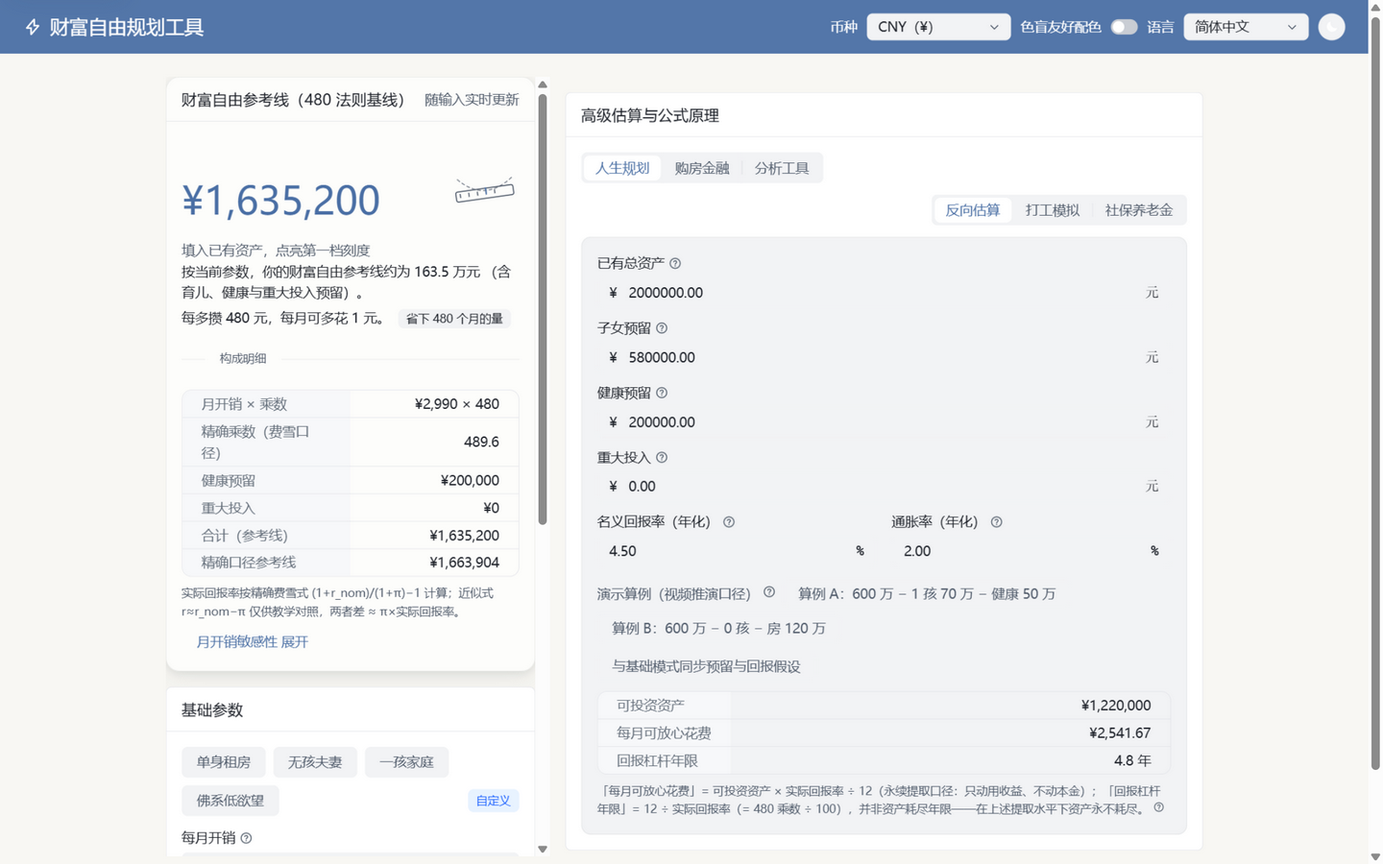
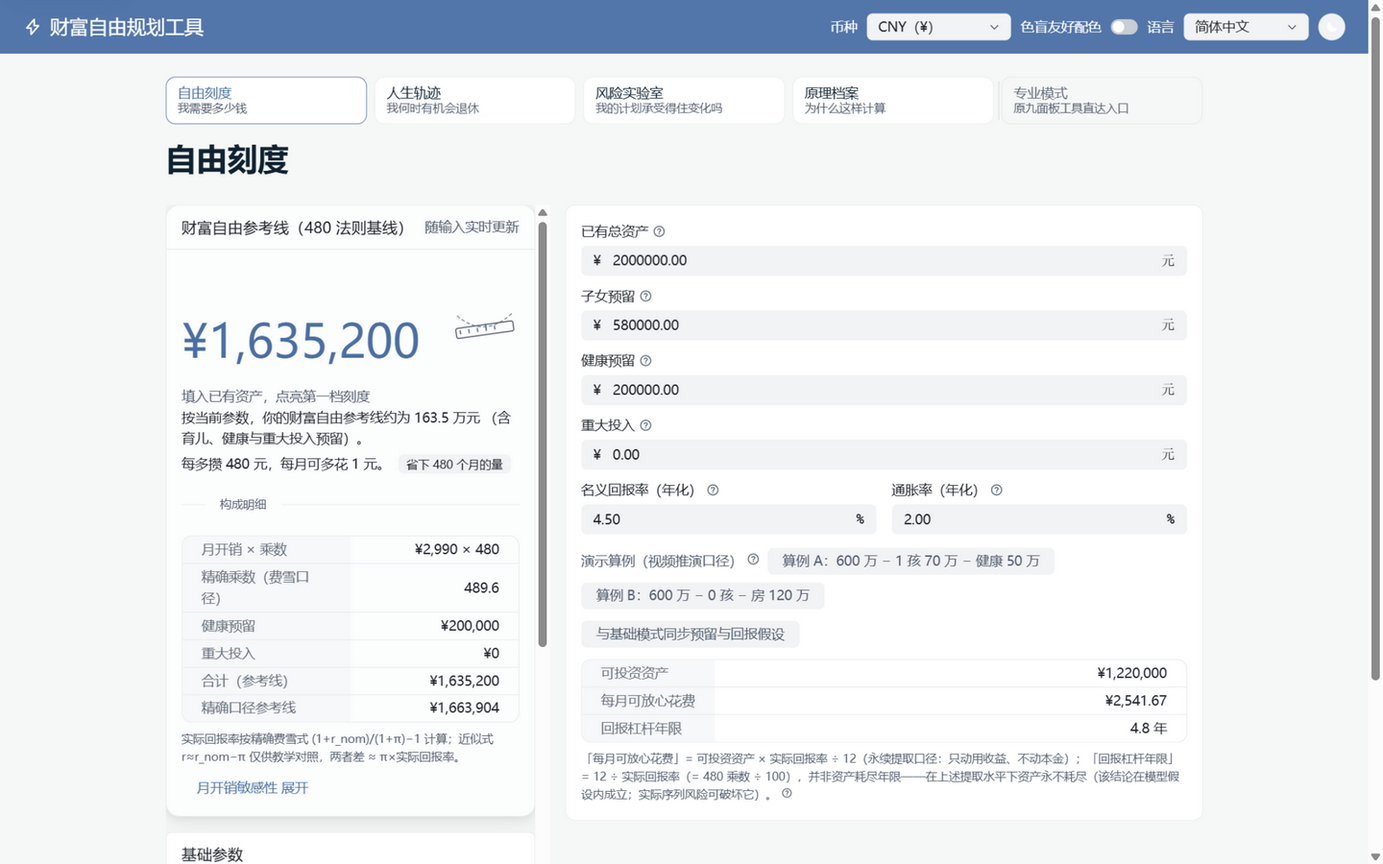
docs: 重构研究与双语说明同步

diff --git a/README.en.md b/README.en.md
@@ -40,7 +40,7 @@ Real return rate = nominal return rate − inflation rate   (defaults: 4.5% − 
 
 With the default inputs (monthly expense 2,990 yuan, organized from the official urban per-capita consumer spending statistics), the reference line is about **1.635 million CNY** (parallel reference: the exact Fisher-basis multiplier is 489.6 → about 1.664 million CNY; both calibers are shown side by side in the panel). Any input change re-computes instantly.
 
-The advanced estimates section uses a **segmented-control + per-group tabs** navigation (nine sub-panels grouped into three segments: Life planning / Housing & loans / Analysis tools; a single on-screen focus, with running simulation results and form inputs preserved across group switches, and arrow keys roaming within a group's tabs) and adds: reverse estimation, a loan calculator, buy-and-rent-out analysis, Monte Carlo simulation (return mode: normal parameters or historical bootstrap; withdrawal strategy: fixed real spending (default) / threshold-band adjustment / percentage of balance, with a deterministic sequence-risk comparison built into the panel), public-pension estimation, tax estimation with a multi-currency check, the work-years simulation (which can also back-solve the required monthly saving for a target horizon), and the multi-scenario comparison (a browser-local scenario library with side-by-side key-metric comparison); the base output card expands into a "Monthly-expense sensitivity" section (reference lines at ±10% / ±20% / ±30%), and "Copy share link" encodes all business inputs into the URL — opening the link restores the same parameter set. The app installs to the desktop / home screen as a PWA and works offline once installed — all computation still stays local.
+The app defaults to a **four-task navigation** — a switcher bar at the top of the content area with exactly five entries: Freedom target (How much do I need?) / Life timeline (When can I afford to retire?) / Risk lab (Can my plan survive change?) / Rationale archive (Why is it calculated this way?), plus Pro mode (direct access to the original nine panels). Keyboard support covers ←/→ roaming with Enter/Space activation, digit keys 1–4/5, and `?task=…` deep links (Pro mode accepts `?task=pro&panel=<panel key>` to land on any of the nine panels); explicit switches persist the route preference locally, so a reload stays on the same task. The original **segmented-control + per-group tabs** navigation (nine sub-panels grouped into three segments: Life planning / Housing & loans / Analysis tools) is preserved intact as Pro mode: a single on-screen focus, running simulation results and form inputs preserved across group switches, arrow keys roaming within a group's tabs — semantics unchanged. It adds: reverse estimation, a loan calculator, buy-and-rent-out analysis, Monte Carlo simulation (return mode: normal parameters or historical bootstrap; withdrawal strategy: fixed real spending (default) / threshold-band adjustment / percentage of balance, with a deterministic sequence-risk comparison built into the panel), public-pension estimation, tax estimation with a multi-currency check, the work-years simulation (which can also back-solve the required monthly saving for a target horizon), and the multi-scenario comparison (a browser-local scenario library with side-by-side key-metric comparison); the base output card expands into a "Monthly-expense sensitivity" section (reference lines at ±10% / ±20% / ±30%), and "Copy share link" encodes all business inputs into the URL — opening the link restores the same parameter set. The app installs to the desktop / home screen as a PWA and works offline once installed — all computation still stays local.
 
 ## 📸 Demo
 
@@ -48,17 +48,17 @@ The advanced estimates section uses a **segmented-control + per-group tabs** nav
 
 <div align="center">
 
-### Desktop two-column workbench · Reading on the left, tools on the right
+### Freedom target · Four-task navigation default view (reading on the left, tools on the right)
 
 ![Desktop two-column workbench](docs/assets/en/demo-workbench.png)
 
-*Desktop two-column layout (active at ≥1200 px viewports; single column below the breakpoint): the left column keeps the "480 Rule" baseline output card — the large critical value, the detailed breakdown (with the parallel exact Fisher-basis rows: exact multiplier 489.6 / exact-basis reference line ¥1,663,904) and the monthly-expense-sensitivity entry (the ruler art at the upper right is the empty state before assets are filled in; it becomes the progress ring afterwards); the right column hosts "Advanced estimates and formula rationale", navigated by a segmented control (Life planning / Housing & loans / Analysis tools) plus in-group tabs, currently on Reverse estimation with its worked examples and the ¥1,220,000 / ¥2,541.67 / 4.8 years result rows*
+*Four-task navigation default view: the switcher bar at the top of the content area holds exactly five entries — Freedom target / Life timeline / Risk lab / Rationale archive as primary tasks plus Pro mode as the secondary entry (direct access to the original nine panels); the active "Freedom target" page is two-column (container tier ≥1024, single column below): the left column keeps the "480 Rule" baseline output card — the large critical value, the detailed breakdown (with the parallel exact Fisher-basis rows: exact multiplier 489.6 / exact-basis reference line ¥1,663,904) and the monthly-expense-sensitivity entry (the ruler art at the upper right is the empty state before assets are filled in; it becomes the progress ring afterwards); the right column hosts the reverse-estimation cross-tool card (demo inputs: total existing assets 2.0M / children's reserve 580k / health reserve 200k → investable assets ¥1,220,000, safe monthly spending ¥2,541.67, return leverage years 4.8 years, with the worked-example buttons)*
 
-### Workbench flow · Two-column linkage and state kept across panels
+### Task-switching capture · State kept across tasks
 
 ![Workbench flow demo](docs/assets/en/demo-workbench-flow.gif)
 
-*Typing in the left column (monthly expense → 3,500): the large critical value settles at ¥1,880,000 with an asymptotic roll of ~360 ms, the breakdown updates to ¥3,500 × 480 and the parallel exact Fisher-basis line to ¥1,913,600; on the right, the Public pension panel takes "Age you plan to stop working = 55" and the bridge card reports 5 years / ¥1,680,000 (= 3,500 × 480 on the full living-expense basis, following the left column's expense), with the "Adjusted reference line (after pension payments start)" moving to ¥657.97 / ¥515,825.6; the Work-years simulation then runs (sustainability check years 10) and yields the dual-metric card — a 99.5% probability of reaching the goal alongside a 99.5% sustained success probability — the two columns scroll independently and no state is lost across panel switches*
+*Four-task switching capture (212 frames): on "Freedom target", monthly expense is changed to 5,000 → the reference line moves to ¥2,600,000 (breakdown ¥5,000 × 480, exact Fisher-basis line ¥2,648,000) and the progress ring lights up ("Existing assets are about 115.4% of the reference line"); switching to "Risk lab" runs the Monte Carlo (seed 42) → asset depletion probability 94.4%, median terminal value ¥0, 95th percentile ¥64,936.61, initial withdrawal rate 7.18%; a visit to "Pro mode" shows the original three-segment shell (Life planning / Housing & loans / Analysis tools) intact; switching back to "Risk lab" the results are still there, and back on "Freedom target" the inputs, figures and ring are untouched — no state is lost across task switches (panels are hidden, not unmounted)*
 
 ### Basic calculation · Live recomputation while typing
 
@@ -298,18 +298,21 @@ What this project **cannot do today, or simplifies on purpose** — please read 
 │   ├── check-size.mjs         # size gate (dist total / largest .wasm; limits overridable via env vars)
 │   └── deploy.sh              # GitHub Pages deploy (gh-pages branch)
 ├── src
-│   ├── App.tsx                # page shell (topbar / calculators / disclaimer) + theme token injection & switching
+│   ├── App.tsx                # page shell (topbar / task area / disclaimer) + theme token injection + task routing
 │   ├── main.tsx               # entry: async bootstrap of WASM init
 │   ├── components
-│   │   ├── BasicCalculator.tsx    # basic mode (480 Rule baseline, default first screen)
-│   │   ├── AdvancedPanel.tsx      # advanced estimates (9 sub-panels in a Collapse)
+│   │   ├── BasicCalculator.tsx    # basic mode (480 Rule baseline, Freedom-target page L1/L2 body)
+│   │   ├── AdvancedPanel.tsx      # Pro mode (original 9 sub-panels in a Collapse shell, ?task=pro direct link)
+│   │   ├── TaskSwitcher.tsx       # four-task switcher bar (role=tablist + roving tabindex)
+│   │   ├── TaskPages.tsx          # Life-timeline page shell (five segments, hidden-not-unmounted)
 │   │   ├── advanced/…             # reverse / loan / rent-out / monte carlo / tax+multi-currency / work-years / pension / scenarios / formula rationale
 │   │   └── fields.tsx / hooks.ts  # form fields; useFinanceCall & motion hooks
 │   ├── i18n                   # react-i18next init + three locale files (zh-CN / zh-Hant / en)
 │   ├── services
 │   │   ├── finance.ts         # WASM call adapter (never throws; failures become structured errors)
 │   │   ├── format.ts          # number/currency formatting
-│   │   └── rates.ts           # rate fetching (URL safety check + offline snapshot fallback)
+│   │   ├── rates.ts           # rate fetching (URL safety check + offline snapshot fallback)
+│   │   └── routeState.ts      # task routing (?task= deep-link parsing + wf-route persistence; query channel orthogonal to the share hash)
 │   ├── store/useCalculatorStore.ts
 │   ├── data                   # types / defaults (incl. both theme token groups) / taxTables / rentParams / regional
 │   ├── styles/global.css      # token / material / dark-override / motion sections

diff --git a/README.md b/README.md
@@ -40,7 +40,7 @@
 
 在默认参数（月开销 2,990 元，参考国家统计局城镇居民人均消费支出口径整理）下，财富自由参考线约为 **163.5 万元**（并列参考：费雪精确口径乘数 489.6 → 约 166.4 万，面板内两口径并行展示）。输入任何一项变化，结果即时联动。
 
-高级估算与公式原理采用**「分段控件 + 组内标签页」导航**（九个子面板分为三组：人生规划 / 购房金融 / 分析工具；同屏单一焦点，跨组切换保留已运行的模拟结果与表单输入，方向键在组内标签间漫游），额外提供：反向估算、贷款测算、买房收租分析、蒙特卡洛模拟（收益模式可选正态参数或历史自助抽样，支取策略可选固定实际支出（默认） / 阈值带调整 / 余额比例，面板内附确定性「序列风险对照」子区）、社保养老金估算、税务估算与多币种校验、打工模拟（支持按目标年限反推所需月储蓄）、多情景对比（浏览器本地场景库 + 关键指标并排对比）；基础输出卡可展开「月开销敏感性」小节（±10% / ±20% / ±30% 三档参考线），「复制分享链接」把全部业务输入编码进 URL，打开链接即恢复同一套参数。整个应用可作为 PWA 安装到桌面 / 主屏，安装后离线可用，计算仍全部在本地完成。
+高级估算与公式原理默认以**四任务导航**承载——内容区顶部任务切换条恰五项：自由刻度（我需要多少钱）/ 人生轨迹（我何时有机会退休）/ 风险实验室（我的计划承受得住变化吗）/ 原理档案（为什么这样计算）+ 专业模式（原九面板工具直达入口）；支持键盘 ←/→ 漫游与 Enter/Space 激活、数字键 1–4/5 快速切换、`?task=…` 深链直达（专业模式 `?task=pro&panel=<面板键>` 可逐一落位九面板），显式切换持久化到本地路由偏好（刷新停留在原任务）。原**「分段控件 + 组内标签页」导航**（九个子面板分为三组：人生规划 / 购房金融 / 分析工具）整壳保留为专业模式：同屏单一焦点、跨组切换保留已运行的模拟结果与表单输入、方向键在组内标签间漫游，原语义零变化。功能面提供：反向估算、贷款测算、买房收租分析、蒙特卡洛模拟（收益模式可选正态参数或历史自助抽样，支取策略可选固定实际支出（默认） / 阈值带调整 / 余额比例，面板内附确定性「序列风险对照」子区）、社保养老金估算、税务估算与多币种校验、打工模拟（支持按目标年限反推所需月储蓄）、多情景对比（浏览器本地场景库 + 关键指标并排对比）；基础输出卡可展开「月开销敏感性」小节（±10% / ±20% / ±30% 三档参考线），「复制分享链接」把全部业务输入编码进 URL，打开链接即恢复同一套参数。整个应用可作为 PWA 安装到桌面 / 主屏，安装后离线可用，计算仍全部在本地完成。
 
 ## 📸 效果演示
 
@@ -48,17 +48,17 @@
 
 <div align="center">
 
-### 桌面双栏工作台 · 左读数右工具
+### 自由刻度 · 四任务导航默认视图（左读数右工具）
 
 ![桌面双栏工作台](docs/assets/demo-workbench.png)
 
-*桌面双栏布局（≥1200 视口生效，窄于该断点维持单列）：左栏常驻「480 法则」基线输出卡——临界值大字号、构成明细（含并列的费雪精确口径两行：精确乘数 489.6 / 精确口径参考线 ¥1,663,904）与「月开销敏感性」入口（资产未填时大字号右上为空态刻度尺图形，填入后换成进度环）；右栏「高级估算与公式原理」按分段控件（人生规划 / 购房金融 / 分析工具）+ 组内标签页导航，当前为反向估算（面板内含演示算例与 ¥1,220,000 / ¥2,541.67 / 4.8 年三行结果）*
+*四任务导航默认视图：内容区顶部切换条恰五项——自由刻度 / 人生轨迹 / 风险实验室 / 原理档案四任务主行 + 专业模式次级样式（原九面板工具直达入口）；当前「自由刻度」页双栏（容器查询 ≥1024 档，窄于该档单列）：左栏「480 法则」基线输出卡——临界值大字号、构成明细（含并列的费雪精确口径两行：精确乘数 489.6 / 精确口径参考线 ¥1,663,904）与「月开销敏感性」入口（资产未填时大字号右上为空态刻度尺图形，填入后换成进度环）；右栏为反向估算交叉工具卡（演示输入：已有总资产 200 万 / 子女预留 58 万 / 健康预留 20 万 → 可投资资产 ¥1,220,000、每月可放心花费 ¥2,541.67、回报杠杆年限 4.8 年，含演示算例按钮）*
 
-### 工作台操作流 · 双栏联动与跨面板状态保留
+### 四任务切换操作流 · 跨任务状态保留
 
 ![工作台操作流](docs/assets/demo-workbench-flow.gif)
 
-*左栏连续输入（月开销 → 3,500）：临界值大字号以约 360ms 渐近滚动落定为 ¥1,880,000，构成明细同步为 ¥3,500 × 480、并列的费雪精确口径参考线刷新为 ¥1,913,600；右栏切到社保养老金面板填「想停止工作的年龄 55」，桥接卡给出 5 年 / ¥1,680,000（= 3,500 × 480 全额生活费口径，随左栏开销联动），「养老金领取后·调整后参考线」同步为 ¥657.97 / ¥515,825.6；再切打工模拟「运行模拟」（存续验证年数 10）得到财富自由达成概率 99.5% 与持续成功概率 99.5% 的双指标卡——双栏各自滚动，跨面板切换不丢状态*
+*四任务切换实录（212 帧）：「自由刻度」把月开销改为 5,000 → 参考线更新为 ¥2,600,000（构成明细 ¥5,000 × 480、费雪精确口径 ¥2,648,000）并点亮进度环（标注已填资产约为参考线的 115.4%）；切「人生轨迹」——打工模拟表单在五组分段（打工模拟 / 社保养老金 / 贷款计算 / 买房收租 / 税务估算）下呈现；切「原理档案」读公式推导与假设链条；切「风险实验室」运行蒙特卡洛（种子 42）→ 资产耗尽概率 94.4%、中位数终值 ¥0、第 95 百分位 ¥64,936.61、初始支取率 7.18%、末年支取额中位数 ¥60,227.97；再切回「自由刻度」——输入、读数与进度环原样保留（跨任务 hidden 非卸载，状态零丢失）*
 
 ### 基础计算 · 输入实时联动
 
@@ -302,18 +302,21 @@ GitHub Pages 设置（一次性，仓库 Settings → Pages）：
 │   ├── check-size.mjs         # 尺寸门禁（dist 总和 / 最大 .wasm，限额可经环境变量覆盖）
 │   └── deploy.sh              # GitHub Pages 部署（gh-pages 分支）
 ├── src
-│   ├── App.tsx                # 页面骨架（顶栏 / 计算区 / 免责声明）+ 主题令牌注入与切换
+│   ├── App.tsx                # 页面骨架（顶栏 / 任务区 / 免责声明）+ 主题令牌注入 + 任务路由
 │   ├── main.tsx               # 入口：异步 bootstrap WASM init
 │   ├── components
-│   │   ├── BasicCalculator.tsx    # 基础模式（480 法则基线，默认首屏）
-│   │   ├── AdvancedPanel.tsx      # 高级估算（9 个子面板 Collapse）
+│   │   ├── BasicCalculator.tsx    # 基础模式（480 法则基线，自由刻度页 L1/L2 主体）
+│   │   ├── AdvancedPanel.tsx      # 专业模式（原 9 子面板 Collapse 整壳，?task=pro 直达）
+│   │   ├── TaskSwitcher.tsx       # 四任务切换条（role=tablist + roving tabindex）
+│   │   ├── TaskPages.tsx          # 人生轨迹页壳（五组分段，hidden 非卸载）
 │   │   ├── advanced/…             # 反向估算 / 贷款 / 买房收租 / 蒙特卡洛 / 税务+多币种 / 打工模拟 / 养老金 / 情景对比 / 公式原理
 │   │   └── fields.tsx / hooks.ts  # 表单字段与 useFinanceCall / 动效 hooks
 │   ├── i18n                   # react-i18next 初始化 + 三份语言资源（zh-CN / zh-Hant / en）
 │   ├── services
 │   │   ├── finance.ts         # WASM 调用适配层（永不抛出，失败转结构化错误）
 │   │   ├── format.ts          # 数字/货币格式化
-│   │   └── rates.ts           # 汇率获取（URL 安全校验 + 离线快照兜底）
+│   │   ├── rates.ts           # 汇率获取（URL 安全校验 + 离线快照兜底）
+│   │   └── routeState.ts      # 任务路由（?task= 深链解析 + wf-route 持久化，query 通道与分享 hash 正交）
 │   ├── store/useCalculatorStore.ts
 │   ├── data                   # types / defaults（含主题令牌双组）/ taxTables / rentParams / regional
 │   ├── styles/global.css      # 令牌区 / 材质区 / 深色覆盖区 / 动效区

diff --git a/docs/design-language.md b/docs/design-language.md
@@ -187,4 +187,5 @@
    - P6 实施收口：S16–S26 十一项按 p6-spec.md §8 实测门禁降档——**S16/S18/S19/S20/S21/S22/S24/S25 八项巧思与 V1/V2/V3 三项视觉调整落地；S17/S23/S26 降档未落地**（全量构建实测 2,001,800 B 超门禁 1,800 B，按预定降档顺序砍 S26 → S23 → S17 后 1,999,865 B 通过，余量 135 B）。逐项落点与差异见本文 §2.1「P6 收口核验」；尺寸实绩、门禁终态与验收收口记录见 p6-spec.md「实施结果与收口记录」；规范段定向确认指出的 5 处低危文档残留已由主会话逐处收口（记录同见 p6-spec.md）。
    - P7 实施收口：财务决策语义修正轮（养老金桥接时间口径 / 积累持续成功率双指标 / 支取策略正名 inflation_uplift / 费雪双口径 / 工程快赢）——**无签名元素增删，S1–S26 零回退**；全部改动为字段增量与文案，无新增动效、无令牌变更（语义修正轮不触发 §5.1 准入）。详见 p7-spec.md「实施结果」。
    - WF-02 登记轮（Atlas 设计系统与原型研究，2026-11-22）：组件选型 ADR 定稿（`docs/atlas-adr-001-component-strategy.md` 已裁定——8 场景 9 子裁定全部零新依赖，不新增运行时依赖）+ 令牌演进表立项预审（`docs/atlas-tokens-evolution.md`——预审登记 20 项 + 零变更断言 3 项；预审值未进三源对账，施工留待 WF-03 经本节 §5.1 准入逐键复验）。本轮零施工：不改任何令牌现值、不写实现代码，S1–S26 语义零变动；研究输入层见 `docs/research-ds-comparison.md`（对照矩阵 + ADR 草案）与 `docs/research-atlas-prototype.md`（四任务双端原型规格）。
+   - WF-03 实施收口（Atlas IA 落地 + 令牌准入施工，2026-11-22）：默认视图换四任务导航（自由刻度 / 人生轨迹 / 风险实验室 / 原理档案 + 专业模式次级入口；任务切换条 role=tablist 语义 + wf-route 持久化 + `?task=pro&panel=<key>` 九面板深链，零新依赖）——方案 B「分段 + 组内标签」整壳保留为专业模式本体（S20/S21 键盘语义零变化）。令牌经本节 §5.1 三步准入施工 9 项：C-1 正文 Ink Navy / C-2 画布 Paper 改值，C-3/C-4/C-5 强调三族与 C-6 区间底新键（三源五点同步，底约束写入字段注），T-1/T-2/T-3 静态字阶键；`check:a11y` 对清单 23 → 63 组、白名单外违规 0。S1–S26 零回退（受影响 19 项随迁不改，S17/S23/S26 维持未落地）；挂起 2 项：C-1 深色画布用途、C-6 深合成终值（随定稿底复验）。门禁六道复跑全绿，尺寸净增 ≈12.9KB（余量 12,678 B）；施工明细见 `docs/atlas-tokens-evolution.md` §8，实施结果与残留见 `docs/wf03-spec.md`「实施结果与收口记录」。
 6. **例外登记**：跨断点/跨形态有意不对称的样式须在此登记并给理由；未登记的不对称视同缺陷。当前登记：移动端底部动作 dock 的「复制分享」为主按钮（type="primary"、全宽），桌面同功能为次要文字按钮——移动端分享是核心闭环动作且触达目标更大（P5.1 V6 登记）。

diff --git a/docs/design-atlas-brief.md b/docs/design-atlas-brief.md
@@ -124,7 +124,7 @@
 | --- | --- | --- | --- |
 | 1 | **WF-01 知识与数据校准** | 视频口径修正落库 | 来源证据矩阵、数据字典（presets/注释/文案）、公式契约、独立算例与回归测试 |
 | 2 | **WF-02 设计系统与原型研究** | HIG/TDesign/Semi/Ant Design 组件级对照 + 双端主流程原型 | Atlas DS 令牌演进表（走 §5.1）、交互规范、组件选型 ADR（Figma 交付物适配为「令牌表+原型规格」代码可消费形态）——**已交付（2026-11-22 登记，零施工）**：①`research-ds-comparison.md`（原则层 A／组件层 B／令牌层 C 对照 + ADR 草案 D + 反采纳 E）；②`research-atlas-prototype.md`（四任务双端原型规格 §0–§7）；③`atlas-adr-001-component-strategy.md`（ADR-001 已裁定：8 场景 9 子裁定全零新依赖）；④`atlas-tokens-evolution.md`（令牌演进预审 20 项 + 零变更断言 3 项；预审值未进三源对账，施工留待 WF-03 经 §5.1 准入）；S1–S26 语义零变动 |
-| 3 | **WF-03 高级区重构** | 九面板→四任务映射 + 任务路由 + 专业模式入口 | 新信息架构、统一参数状态、迁移对照表、深链接兼容 |
+| 3 | **WF-03 高级区重构** | 九面板→四任务映射 + 任务路由 + 专业模式入口 | 新信息架构、统一参数状态、迁移对照表、深链接兼容——**已交付（2026-11-22 实施收口）**：①研究两件 `research-wf03-migration.md`（九面板迁移表 + 令牌全矩阵实算）／`research-wf03-routing.md`（入口—路由—持久化裁定）；②施工规范 `wf03-spec.md`（§0 发布阻断映射 → §9 验收 checklist）；③实施落地：四任务切换条（freedom/life/risk/principles + 专业模式次级）+ 五任务页容器（hidden 非卸载）、`wf-route` 持久化、`?task=pro&panel=<key>` 九面板深链、令牌 9 项准入施工（C-1…C-6 + T-1/T-2/T-3，`atlas-tokens-evolution.md` §8 回填；a11y 对清单 23→63 组零违规）、atlas 13 键 ×3 语；门禁六道复跑全绿、尺寸 1,987,322 B（余量 12,678 B）；残留：C-1 深色画布用途与 C-6 深合成终值挂起、life/risk 容器查询归 WF-04（下方衔接注记兑现） |
 | 4 | **WF-04 生命周期交互整合** | 时间透镜/公式解构/情景叠影接 WASM 真实计算 | 真实计算驱动的交互界面（生命周期引擎为前置） |
 | 5 | **WF-05 响应式/性能/无障碍验证** | 真实浏览器全矩阵 | 跨视口截图、交互录屏、自动化测试、性能报告、修复证据 |
 | 6 | **WF-06 可用性验证收敛** | 初次使用者 vs 熟悉投资概念用户双走查 | 任务完成率、错误解释率、完成时间、问题清单、改版前后对照（真实用户不可得时以双独立走查员+任务完成断言替代，如实声明） |
